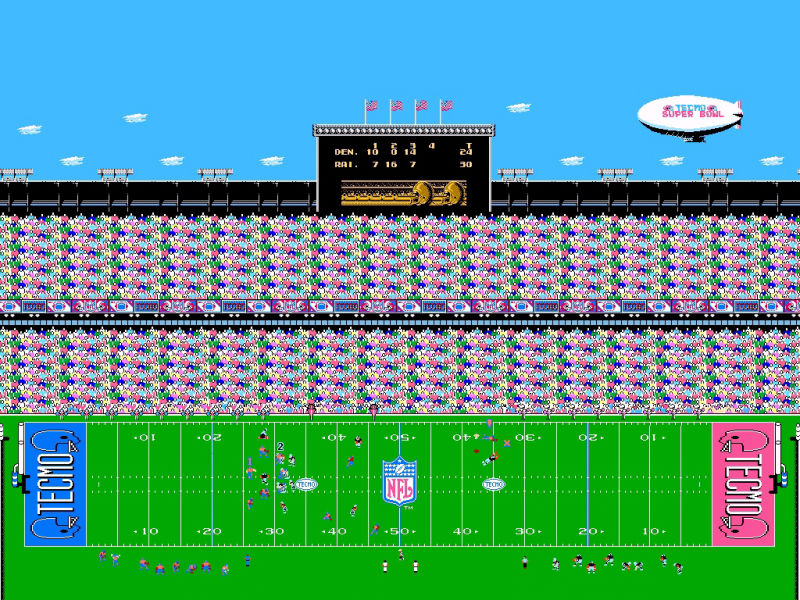
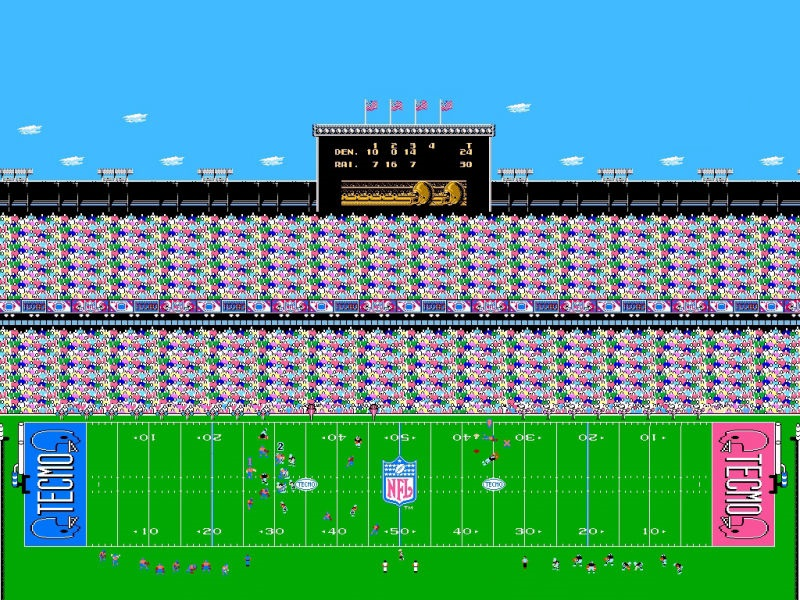
Button placement

diff --git a/index.html b/index.html
@@ -12,13 +12,15 @@
 <body>
    <div class="container">
 
+    <input type="image" src="blimp.png" alt="blimp" name="startbtn" class="blimp" />
+    
     <id="racers">
      <img class="bo" id="racer1" src="bo.png" alt="Bo Jackson" >
      <img class="otherBo" id=racer2"" src="otherBo.png" alt="Other Bo Jackson" >
     </id>
 
 
-    <input type="image" src="blimp.png" alt="blimp" name="startbtn" class="blimp" />
+   
    
 
 

diff --git a/style.css b/style.css
@@ -4,12 +4,10 @@ html{
     background-repeat: no-repeat;  
     background-position: 0vw 0vh;
     background-size: 100vw 100vh;
-
-  
 }
 
 .bo{
-    padding-top: 70vh;
+    padding-top: 60vh;
     height: 200px;
 }
 
@@ -17,7 +15,7 @@ html{
     height: 200px;
 }
 .blimp{
-    padding-bottom: 5vh;
+   
     padding-left: 80vw;
     width: 350px;
 }
